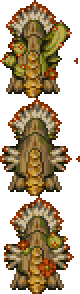
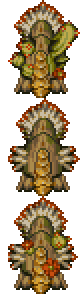
update

diff --git a/Content/NPCs/FestersandSerpents/Projectiles/FssHuskShard.cs b/Content/NPCs/FestersandSerpents/Projectiles/FssHuskShard.cs
@@ -1,3 +1,4 @@
+using CalamityOverhaul.Content.NPCs;
 using Microsoft.Xna.Framework.Graphics;
 using Terraria;
 using Terraria.GameContent;
@@ -72,7 +73,7 @@ namespace CalamityOverhaul.Content.NPCs.FestersandSerpents.Projectiles
             //旧壳：体节素帧染灰紫（死皮，无灵液光）
             Main.instance.LoadProjectile(Type);
             Texture2D tex = TextureAssets.Projectile[Type].Value;
-            Rectangle frame = new(0, 0, tex.Width, tex.Height / 2);
+            Rectangle frame = new(0, 0, tex.Width, tex.Height / SerpentChainMath.BodyStyleCount);
             Vector2 origin = frame.Size() / 2f;
             float fade = 1f - Projectile.alpha / 255f;
             Color husk = lightColor.MultiplyRGB(new Color(150, 132, 168));
